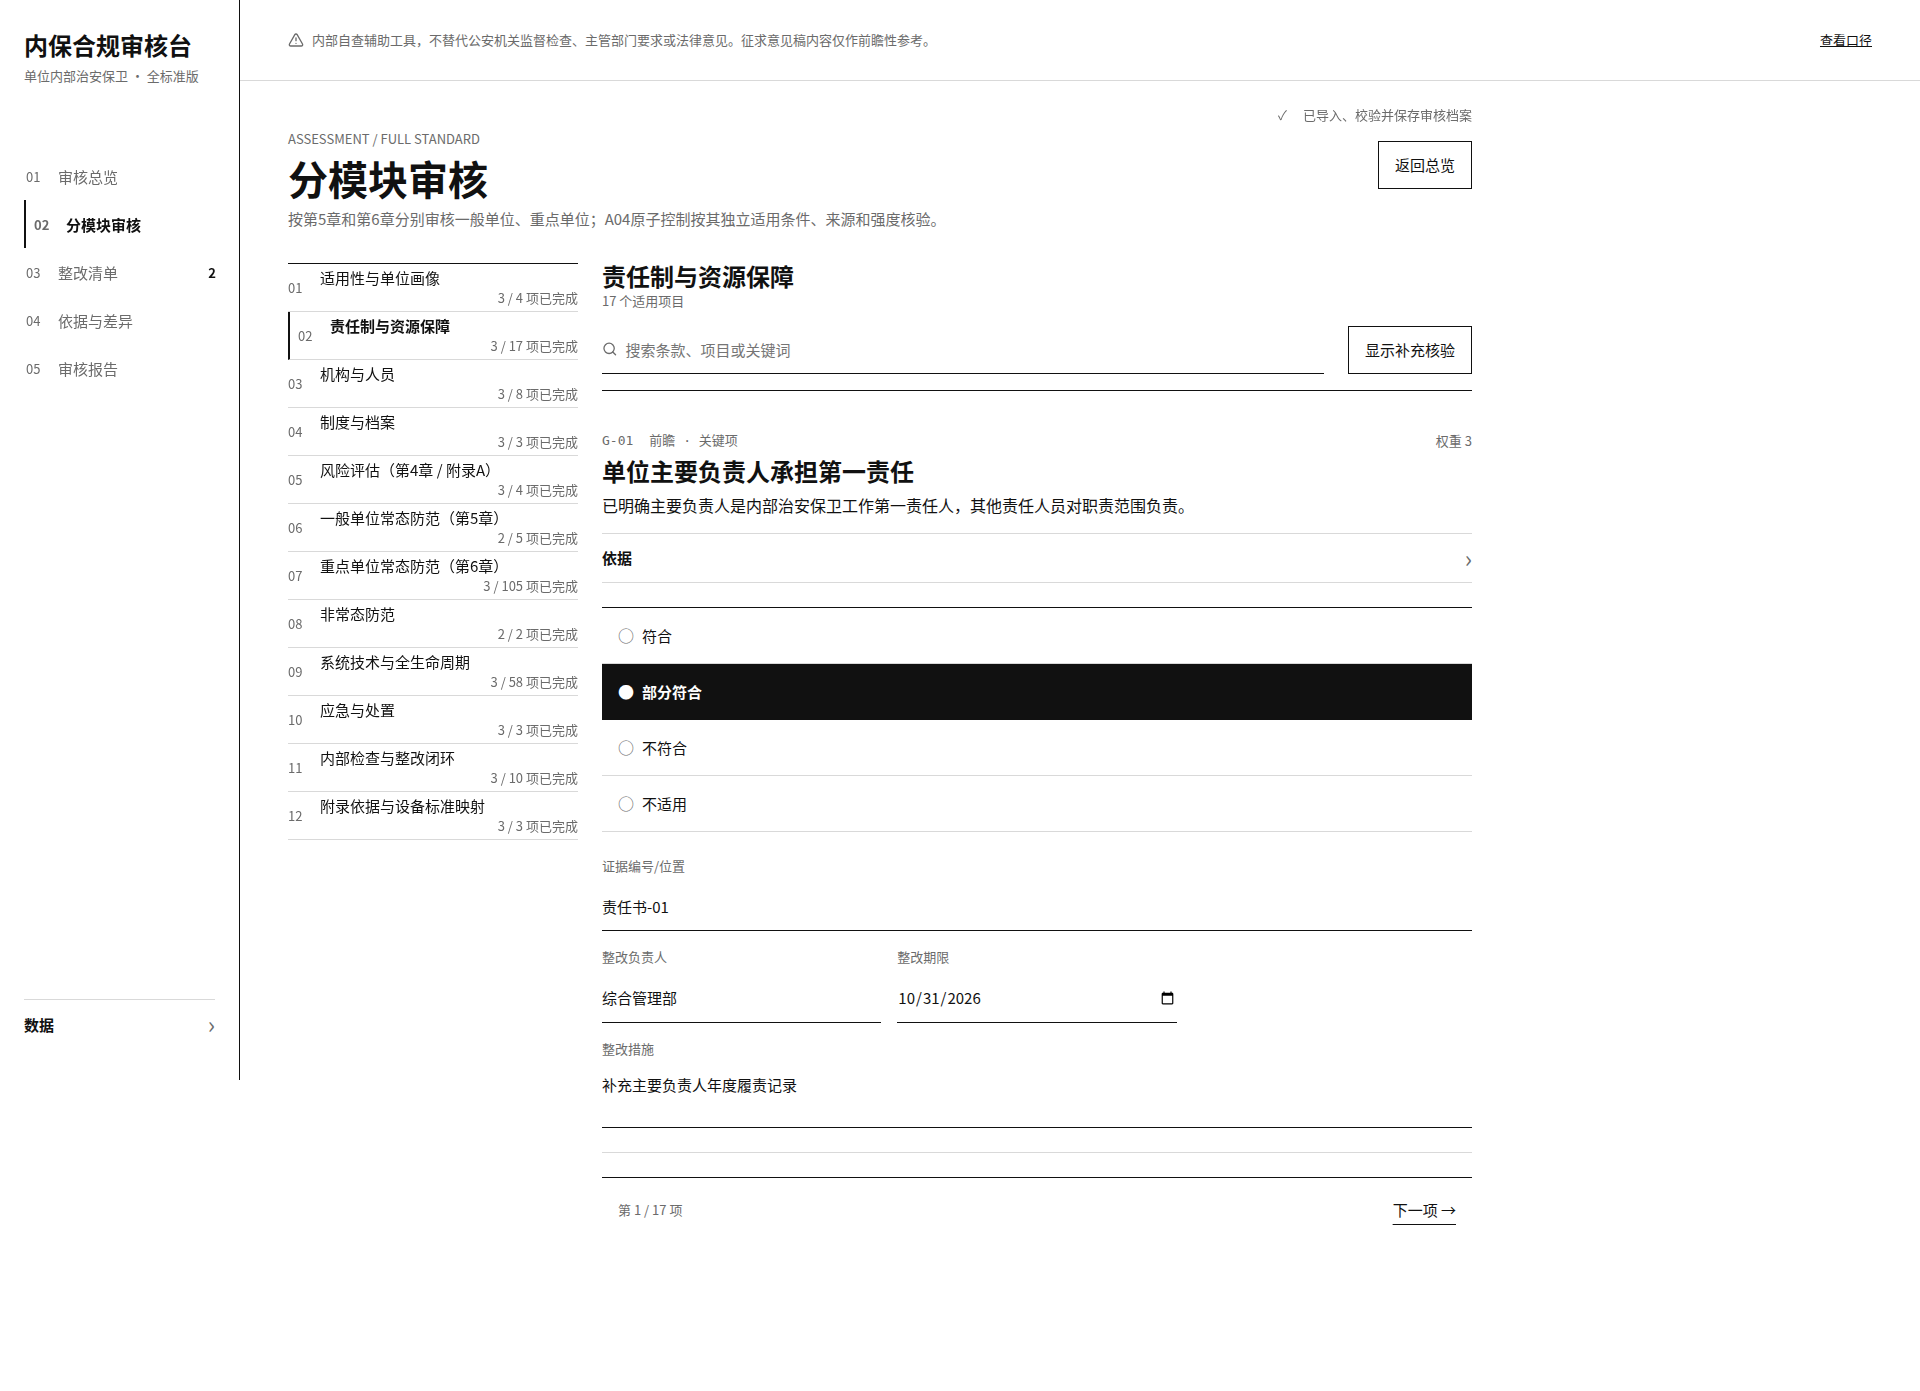
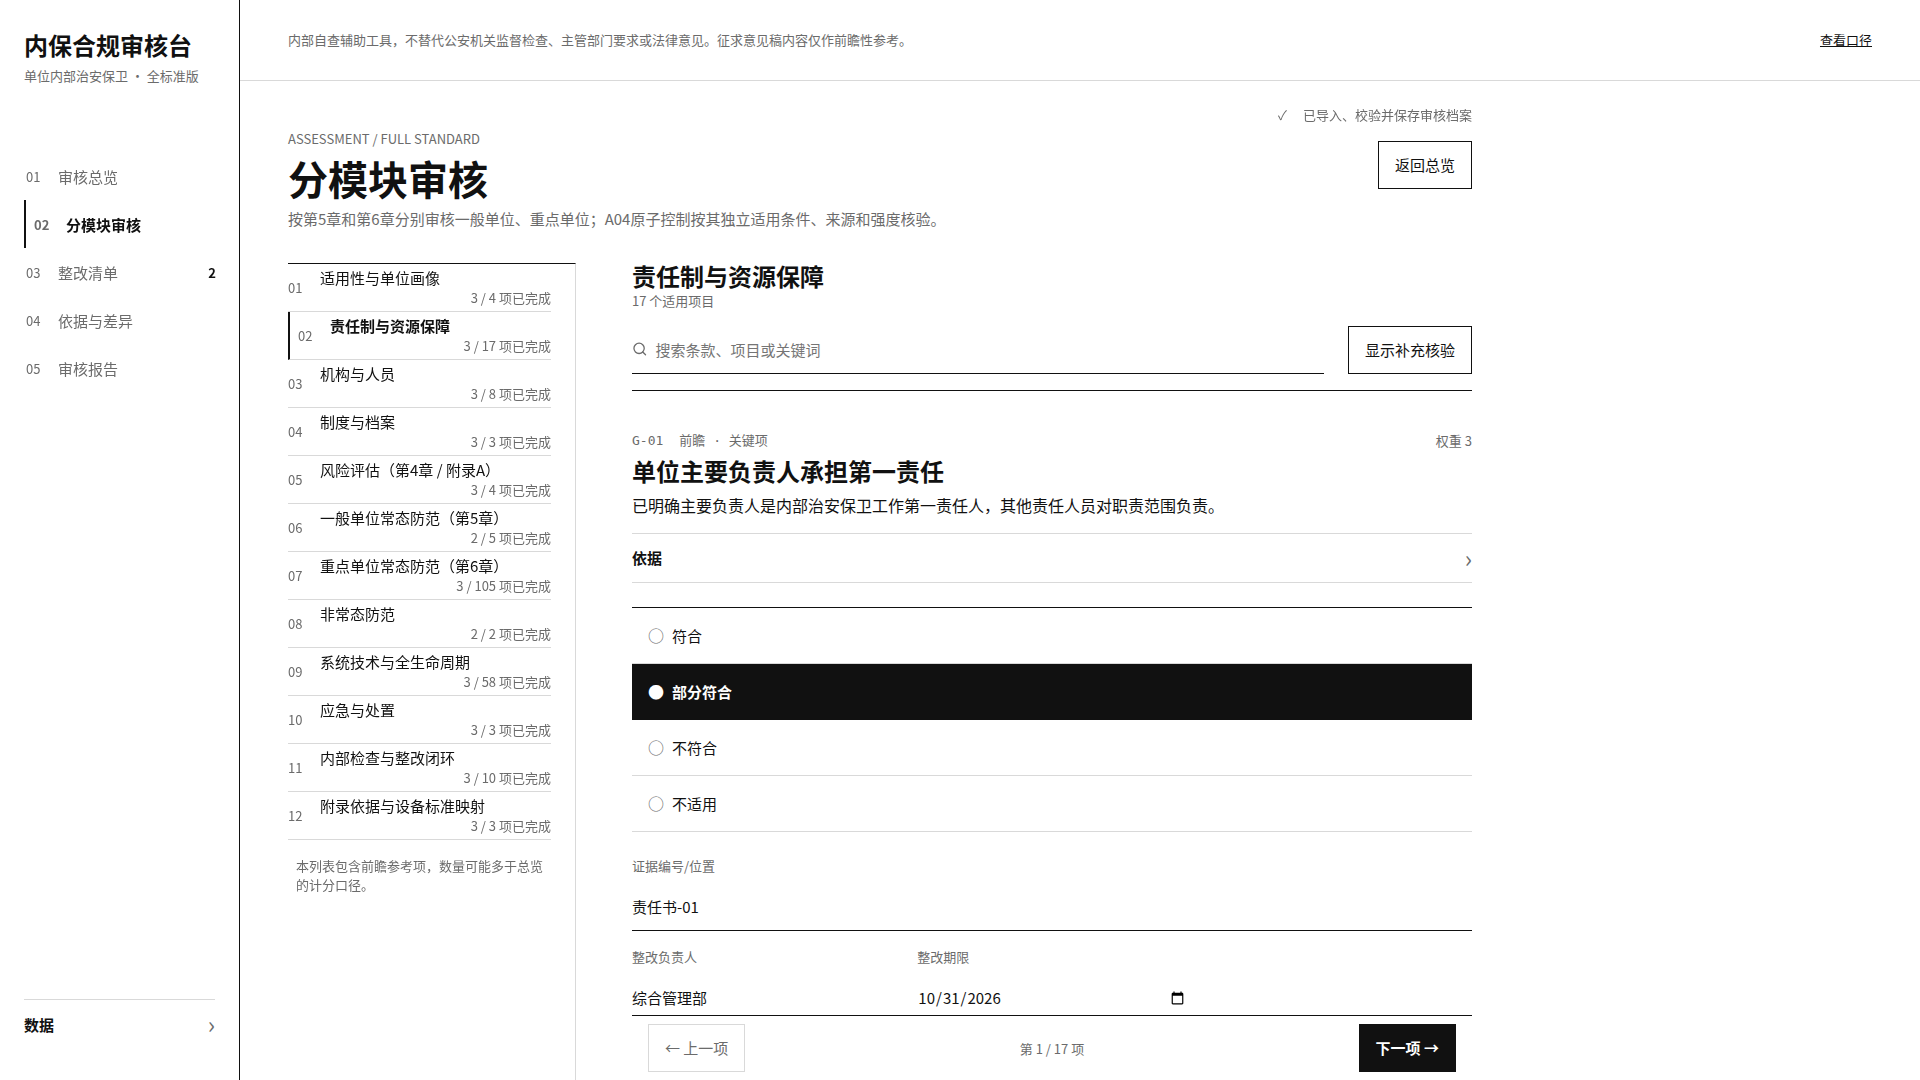
fix: restore desktop sidebar nav visibility and refine assessment layout

diff --git a/scripts/desktop-check.ts b/scripts/desktop-check.ts
@@ -241,6 +241,53 @@ async function assertSidebarFixed(page: import('playwright-core').Page) {
   }
 }
 
+async function assertAssessmentDesktopLayout(page: import('playwright-core').Page) {
+  const navItems = page.locator('button.nav-item');
+  const navResult = await page.evaluate(`(() => Array.from(document.querySelectorAll('.nav-item')).map(element => {
+    const rect = element.getBoundingClientRect();
+    const point = document.elementFromPoint(rect.left + rect.width / 2, rect.top + rect.height / 2);
+    return { visible: rect.width > 0 && rect.height > 0, hit: point === element || element.contains(point) };
+  }))()` ) as Array<{ visible: boolean; hit: boolean }>;
+  if (navResult.length !== 5 || navResult.some(item => !item.visible || !item.hit)) {
+    throw new Error(`桌面导航项不可见或被遮挡：${JSON.stringify(navResult)}`);
+  }
+  await navItems.filter({ hasText: '分模块审核' }).click();
+  await page.locator('.assessment-page').waitFor({ state: 'visible', timeout: 10_000 });
+  const layout = await page.evaluate(`(() => {
+    const root = document.documentElement;
+    const moduleList = document.querySelector('.assessment-page .module-list');
+    const criteriaPane = document.querySelector('.assessment-page .criteria-pane');
+    const next = document.querySelector('.assessment-item-pagination .assessment-next-btn');
+    if (!moduleList || !criteriaPane || !next) return null;
+    const moduleRect = moduleList.getBoundingClientRect();
+    const criteriaRect = criteriaPane.getBoundingClientRect();
+    const nextRect = next.getBoundingClientRect();
+    const moduleStyle = getComputedStyle(moduleList);
+    const nextStyle = getComputedStyle(next);
+    const previousStyle = getComputedStyle(document.querySelector('.assessment-previous-btn'));
+    const rootStyle = getComputedStyle(root);
+    return {
+      distance: criteriaRect.left - moduleRect.right,
+      expectedGap: Number.parseFloat(rootStyle.getPropertyValue('--space-4')),
+      borderRight: moduleStyle.borderRightStyle !== 'none' && Number.parseFloat(moduleStyle.borderRightWidth) > 0,
+      nextBackground: nextStyle.backgroundColor,
+      nextColor: nextStyle.color,
+      previousBackground: previousStyle.backgroundColor,
+      previousColor: previousStyle.color,
+      transparent: rootStyle.getPropertyValue('--color-transparent').trim(),
+      nextBottom: nextRect.bottom,
+      viewportHeight: window.innerHeight,
+    };
+  })()`) as { distance: number; expectedGap: number; borderRight: boolean; nextBackground: string; nextColor: string; previousBackground: string; previousColor: string; transparent: string; nextBottom: number; viewportHeight: number } | null;
+  if (!layout) throw new Error('分模块审核桌面布局缺少必要元素');
+  if (layout.distance + 1 < layout.expectedGap || !layout.borderRight) {
+    throw new Error(`分栏间距或右侧分隔线不符合要求：${JSON.stringify(layout)}`);
+  }
+  if (layout.nextBackground === layout.transparent || layout.nextBackground === layout.previousBackground || layout.nextColor === layout.previousColor || layout.nextBackground === layout.nextColor || layout.nextBottom > layout.viewportHeight + 1) {
+    throw new Error(`桌面下一项按钮样式或位置不符合要求：${JSON.stringify(layout)}`);
+  }
+}
+
 async function main() {
   if (!existsSync(samplePath)) throw new Error(`缺少样例数据：${samplePath}`);
   const preview = startPreview();
@@ -276,6 +323,7 @@ async function main() {
       await assertReportCountLabels(page, '现行基线计分项目');
       await assertRemediationRowsAligned(page);
       await assertSidebarFixed(page);
+      await assertAssessmentDesktopLayout(page);
       if (item.width === 1024) {
         await assertNarrowDesktopText(page);
         await assertCustomSelectKeyboard(page);

diff --git a/client/src/App.tsx b/client/src/App.tsx
@@ -288,7 +288,7 @@ function Assessment({ profile, activeModule, setActiveModule, moduleList, items,
       <div className="criteria-pane">
         <div className="criteria-toolbar"><div><h2>{activeModuleLabel}</h2><span>{keyModeOff ? '第6.1筛查入口' : `${items.length} 个适用项目`}</span></div><div className="toolbar-actions"><button className={`outline-btn supplemental-toggle ${supplementalEnabled ? 'enabled' : ''}`} onClick={onToggleSupplement}>{supplementalEnabled ? '隐藏补充核验' : '显示补充核验'}</button><div className="search"><Search size={16} /><input value={query} onChange={event => setQuery(event.target.value)} placeholder="搜索条款、项目或关键词" /></div></div></div>
         {keyModeOff && <div className="info-banner key-entry"><BookOpen size={16} /><span><strong>当前按一般单位模式审核。</strong> 可先完成第6.1类别筛查；如需审核重点单位要求，可展开重点单位模式并选择相应防范级别。</span><button className="primary-btn" onClick={onEnableKeyReview}>展开重点单位模式</button></div>}
-        {items.length === 0 ? <div className="empty"><CheckCircle2 size={32} /><h3>{query.trim() && allCriteria.some(criterion => criterion.module === activeModule) ? '没有匹配的条款，请调整搜索条件' : '暂无适用项目'}</h3><p>{query.trim() && allCriteria.some(criterion => criterion.module === activeModule) ? '请调整搜索条件。' : '当前单位画像未触发该模块；请在单位画像中补充A04工程和系统适用事实。'}</p></div> : <><AssessmentItem criterion={activeCriterion!} answer={answers[activeCriterion!.id] ?? emptyAnswer()} profile={profile} update={patch => updateAnswer(activeCriterion!.id, patch)} /><div className="assessment-item-pagination"><span>第 {activeCriterionIndex + 1} / {items.length} 项</span><button className="text-btn" onClick={() => moveCriterion(1)} disabled={activeCriterionIndex === items.length - 1}>下一项 →</button></div></>}
+        {items.length === 0 ? <div className="empty"><CheckCircle2 size={32} /><h3>{query.trim() && allCriteria.some(criterion => criterion.module === activeModule) ? '没有匹配的条款，请调整搜索条件' : '暂无适用项目'}</h3><p>{query.trim() && allCriteria.some(criterion => criterion.module === activeModule) ? '请调整搜索条件。' : '当前单位画像未触发该模块；请在单位画像中补充A04工程和系统适用事实。'}</p></div> : <><AssessmentItem criterion={activeCriterion!} answer={answers[activeCriterion!.id] ?? emptyAnswer()} profile={profile} update={patch => updateAnswer(activeCriterion!.id, patch)} /><div className="assessment-item-pagination"><button className="outline-btn assessment-previous-btn" onClick={() => moveCriterion(-1)} disabled={activeCriterionIndex === 0}>← 上一项</button><span>第 {activeCriterionIndex + 1} / {items.length} 项</span><button className="text-btn assessment-next-btn" onClick={() => moveCriterion(1)} disabled={activeCriterionIndex === items.length - 1}>下一项 →</button></div></>}
       </div>
     </div>
   </div>;

diff --git a/client/src/index.css b/client/src/index.css
@@ -722,7 +722,7 @@ button:focus-visible, input:focus-visible, select:focus-visible, textarea:focus-
     position: fixed;
     top: var(--space-0);
     left: var(--space-0);
-    z-index: 30;
+    z-index: auto;
     grid-column: 1;
     grid-row: 1 / span 2;
     width: var(--sidebar-width);
@@ -750,6 +750,7 @@ button:focus-visible, input:focus-visible, select:focus-visible, textarea:focus-
   }
   .sidebar {
     position: fixed;
+    z-index: calc(var(--z-popover) + 1);
     top: var(--side-nav-top);
     bottom: var(--side-data-space);
     left: var(--space-0);
@@ -766,7 +767,7 @@ button:focus-visible, input:focus-visible, select:focus-visible, textarea:focus-
     padding: var(--space-2);
     background: var(--color-background);
     border: var(--line-width) solid var(--color-text);
-    z-index: 31;
+    z-index: calc(var(--z-popover) + 2);
   }
   .topbar .data-menu { pointer-events: auto; }
 
@@ -1532,4 +1533,60 @@ button:focus-visible, input:focus-visible, select:focus-visible, textarea:focus-
   .remediation-row-toggle .remediation-due { grid-column: 4; grid-row: 1; align-self: start; }
   .remediation-row-toggle .remediation-priority { grid-column: 5; grid-row: 1; align-self: start; min-height: var(--space-0); display: block; }
   .remediation-row-toggle .remediation-status { grid-column: 6; grid-row: 1; align-self: start; }
+}
+
+@media (min-width: 1024px) {
+  .assessment-page .assessment-layout {
+    gap: var(--space-4);
+  }
+  .assessment-page .module-list {
+    padding-right: var(--space-3);
+    border-right: var(--line-width) solid var(--color-line);
+  }
+  .assessment-page .criteria-pane {
+    padding-left: var(--space-3);
+    padding-bottom: var(--assessment-footer-height);
+  }
+  .assessment-page .assessment-item-pagination {
+    position: sticky;
+    bottom: var(--space-0);
+    z-index: var(--z-popover);
+    display: grid;
+    grid-template-columns: minmax(0, 1fr) auto minmax(0, 1fr);
+    align-items: center;
+    gap: var(--space-2);
+    min-height: var(--assessment-footer-height);
+    margin-top: var(--space-3);
+    padding: var(--space-1) var(--space-2);
+    background: var(--color-background);
+    border-top: var(--line-width) solid var(--color-text);
+  }
+  .assessment-previous-btn {
+    justify-self: start;
+  }
+  .assessment-previous-btn:disabled {
+    color: var(--color-muted);
+    border-color: var(--color-line);
+    cursor: default;
+  }
+  .assessment-next-btn {
+    justify-self: end;
+    min-height: var(--control-height);
+    padding: var(--space-0) var(--space-2);
+    color: var(--color-background);
+    background: var(--color-text);
+    border: var(--line-width) solid var(--color-text);
+    font-weight: var(--font-weight-bold);
+    text-decoration: none;
+  }
+  .assessment-next-btn:disabled {
+    color: var(--color-muted);
+    background: var(--color-line);
+    border-color: var(--color-line);
+    cursor: default;
+  }
+}
+
+@media (max-width: 1023px) {
+  .assessment-previous-btn { display: none; }
 }
